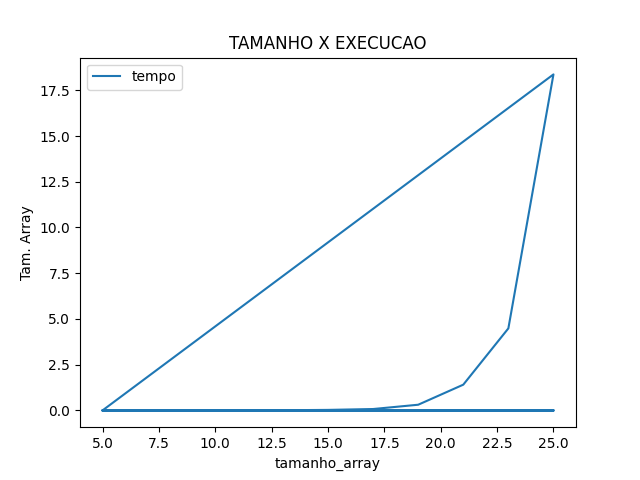
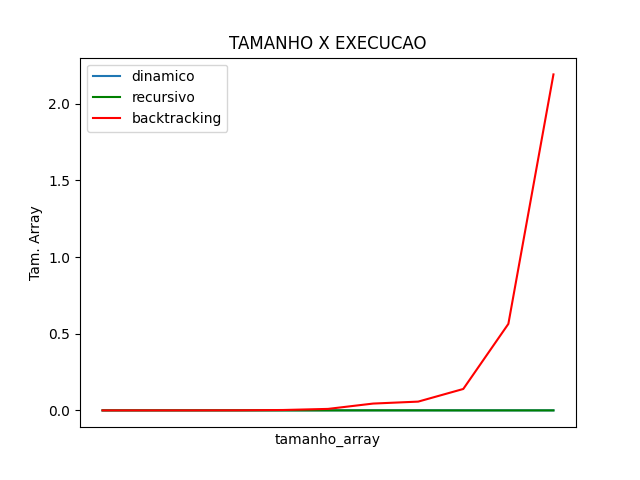
finalizado

diff --git a/subset_sum.py b/subset_sum.py
@@ -8,7 +8,7 @@ import numpy as np
 import os
 import pandas as pd
 import matplotlib.pyplot as plt
-
+from decimal import Decimal
 """dinâmica"""
 def dinamico(lista, TAM, soma):
 
@@ -117,8 +117,8 @@ def executar():
 def gerar_csv():
     
     max_execucao = 12
-    soma = 6
-    tam_array = 5
+    soma = 5
+    tam_array = 2
     tam_array_iteracao = []
     
     tempos_recursivo = []
@@ -136,20 +136,20 @@ def gerar_csv():
         temp_ini = time.time()
         dinamico(vetor, tam_array, soma)
         temp_fim = time.time()
-        tempos_dinamico.append(temp_fim - temp_ini)
+        tempos_dinamico.append(Decimal(str(temp_fim - temp_ini)))
         
         print("RECURSIVO")
         temp_ini = time.time()
         recursivo(vetor, tam_array, soma)
         temp_fim = time.time()
-        tempos_recursivo.append(temp_fim - temp_ini)
+        tempos_recursivo.append(Decimal(str(temp_fim - temp_ini)))
         
         
         print("backtracking")
         temp_ini = time.time()
         backtracking(vetor, 0,0, soma)
         temp_fim = time.time()
-        tempos_back.append(temp_fim - temp_ini)
+        tempos_back.append(Decimal(str(temp_fim - temp_ini)))
     
         tam_array_iteracao.append(tam_array)
         
@@ -173,9 +173,17 @@ def gerar_grafico():
     dataframe = pd.read_csv('subsetsum_tempos.csv', sep=';')
     df = pd.DataFrame(dataframe, columns=['metodo','tempo', 'tamanho_array'])
     
+    df_dinamico = df.loc[df['metodo'] == 'dinamico']
+    df_recursivo = df.loc[df['metodo'] == 'recursivo']
+    df_backtracking = df.loc[df['metodo'] == 'backtracking']
+    
     ax = plt.gca()
     
-    df.plot(kind='line', x='tamanho_array', y='tempo', ax=ax, stacked=True)
+    df_dinamico.plot(kind='line', x='tamanho_array', y='tempo',label='dinamico' ,ax=ax,xticks=[0.1], stacked=True)
+    df_recursivo.plot(kind='line', x='tamanho_array', y='tempo', label='recursivo', color='green',  xticks=[0.1], ax=ax, stacked=True)
+    df_backtracking.plot(kind='line', x='tamanho_array', y='tempo',color='red', label='backtracking', ax=ax,xticks=[0.000001], stacked=True)
+    
+    
     plt.title('TAMANHO X EXECUCAO')
     plt.ylabel('Tempo')
     plt.ylabel('Tam. Array')

diff --git a/readme.MD b/readme.MD
@@ -6,10 +6,16 @@
 
 # melhorias 
  - apresentar todos os subconjuntos  do backtracking, até momento ele conta quantos sub conjunto sao possiveis
- - o plot do grafico nao está nomeando por metodo
+ - [x] o plot do grafico nao está nomeando por metodo (concluido) 
 
 # Execução
     - instale o as dependencias nescessárias pip install -r requirements.txt
     - o programa pega o conjunto do arquivo conjuntos.txt, para alterar o conjunto altere o arquivo
       sempre respeitando as virgulas.
+
+    - Para gerar o gráfico primeiro, gere o csv!
+
+# Gráfico de Complexidade
+
+<img src="./output.png"/>
     
